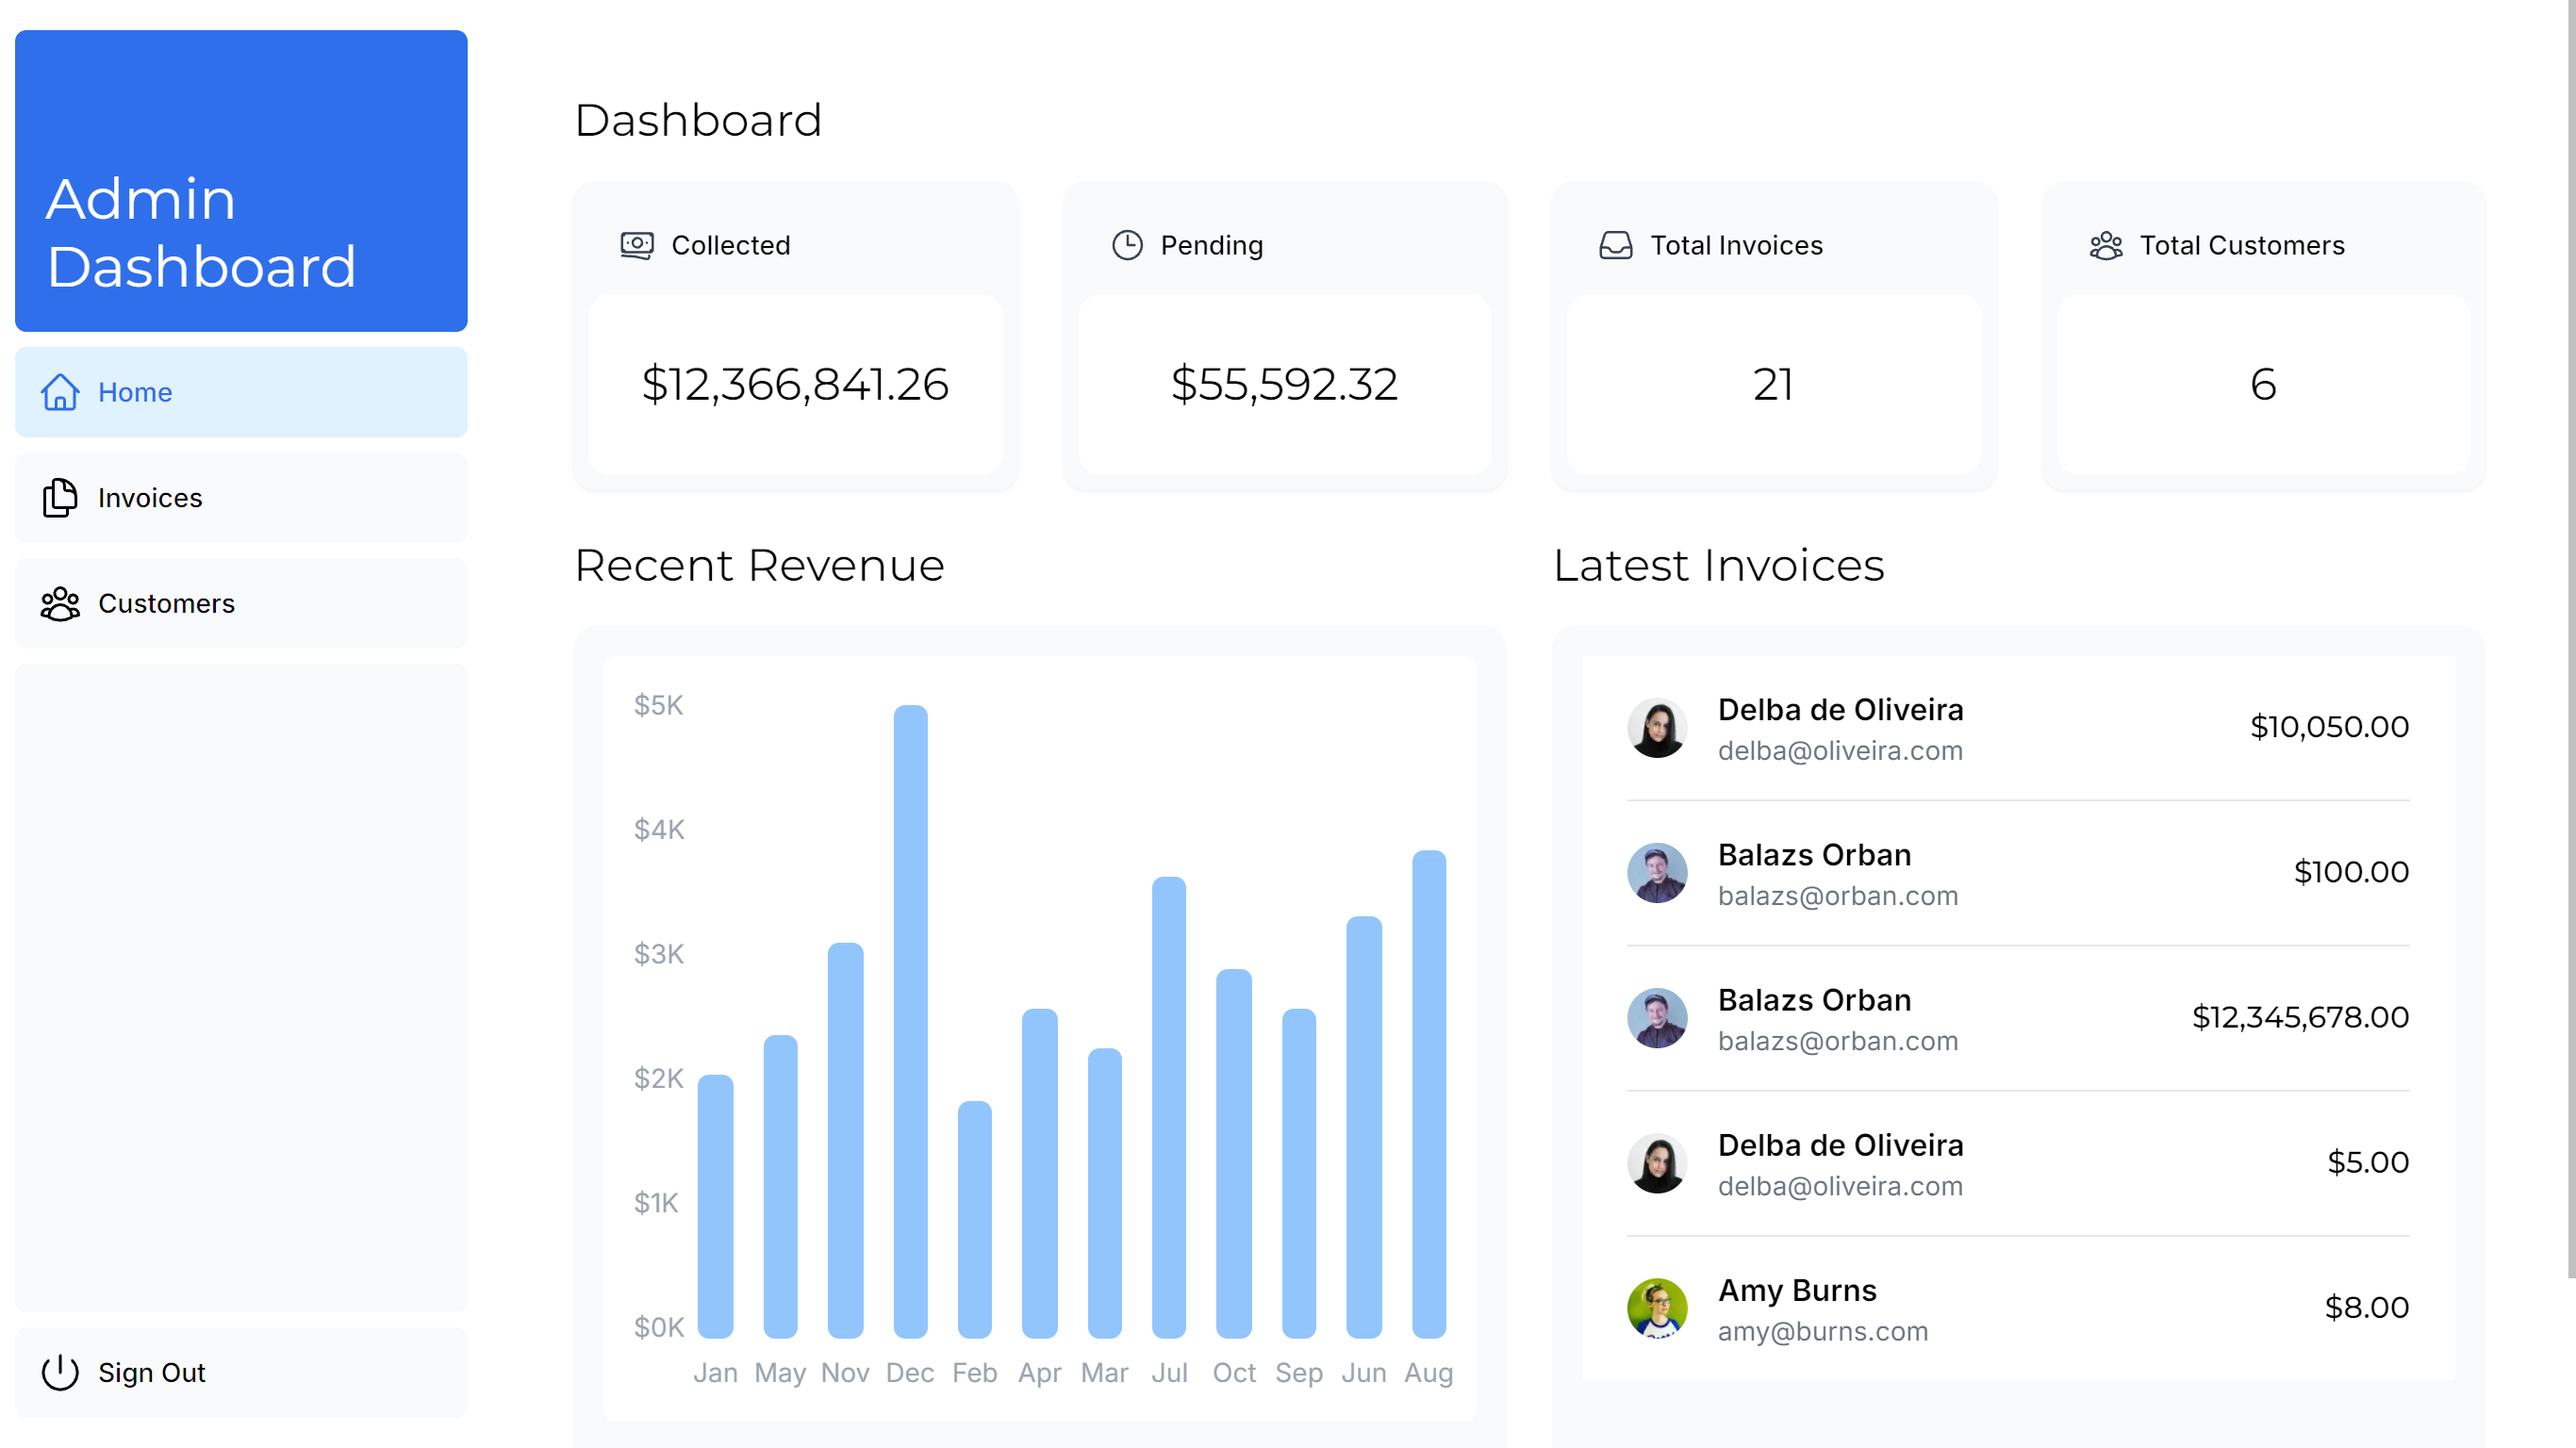
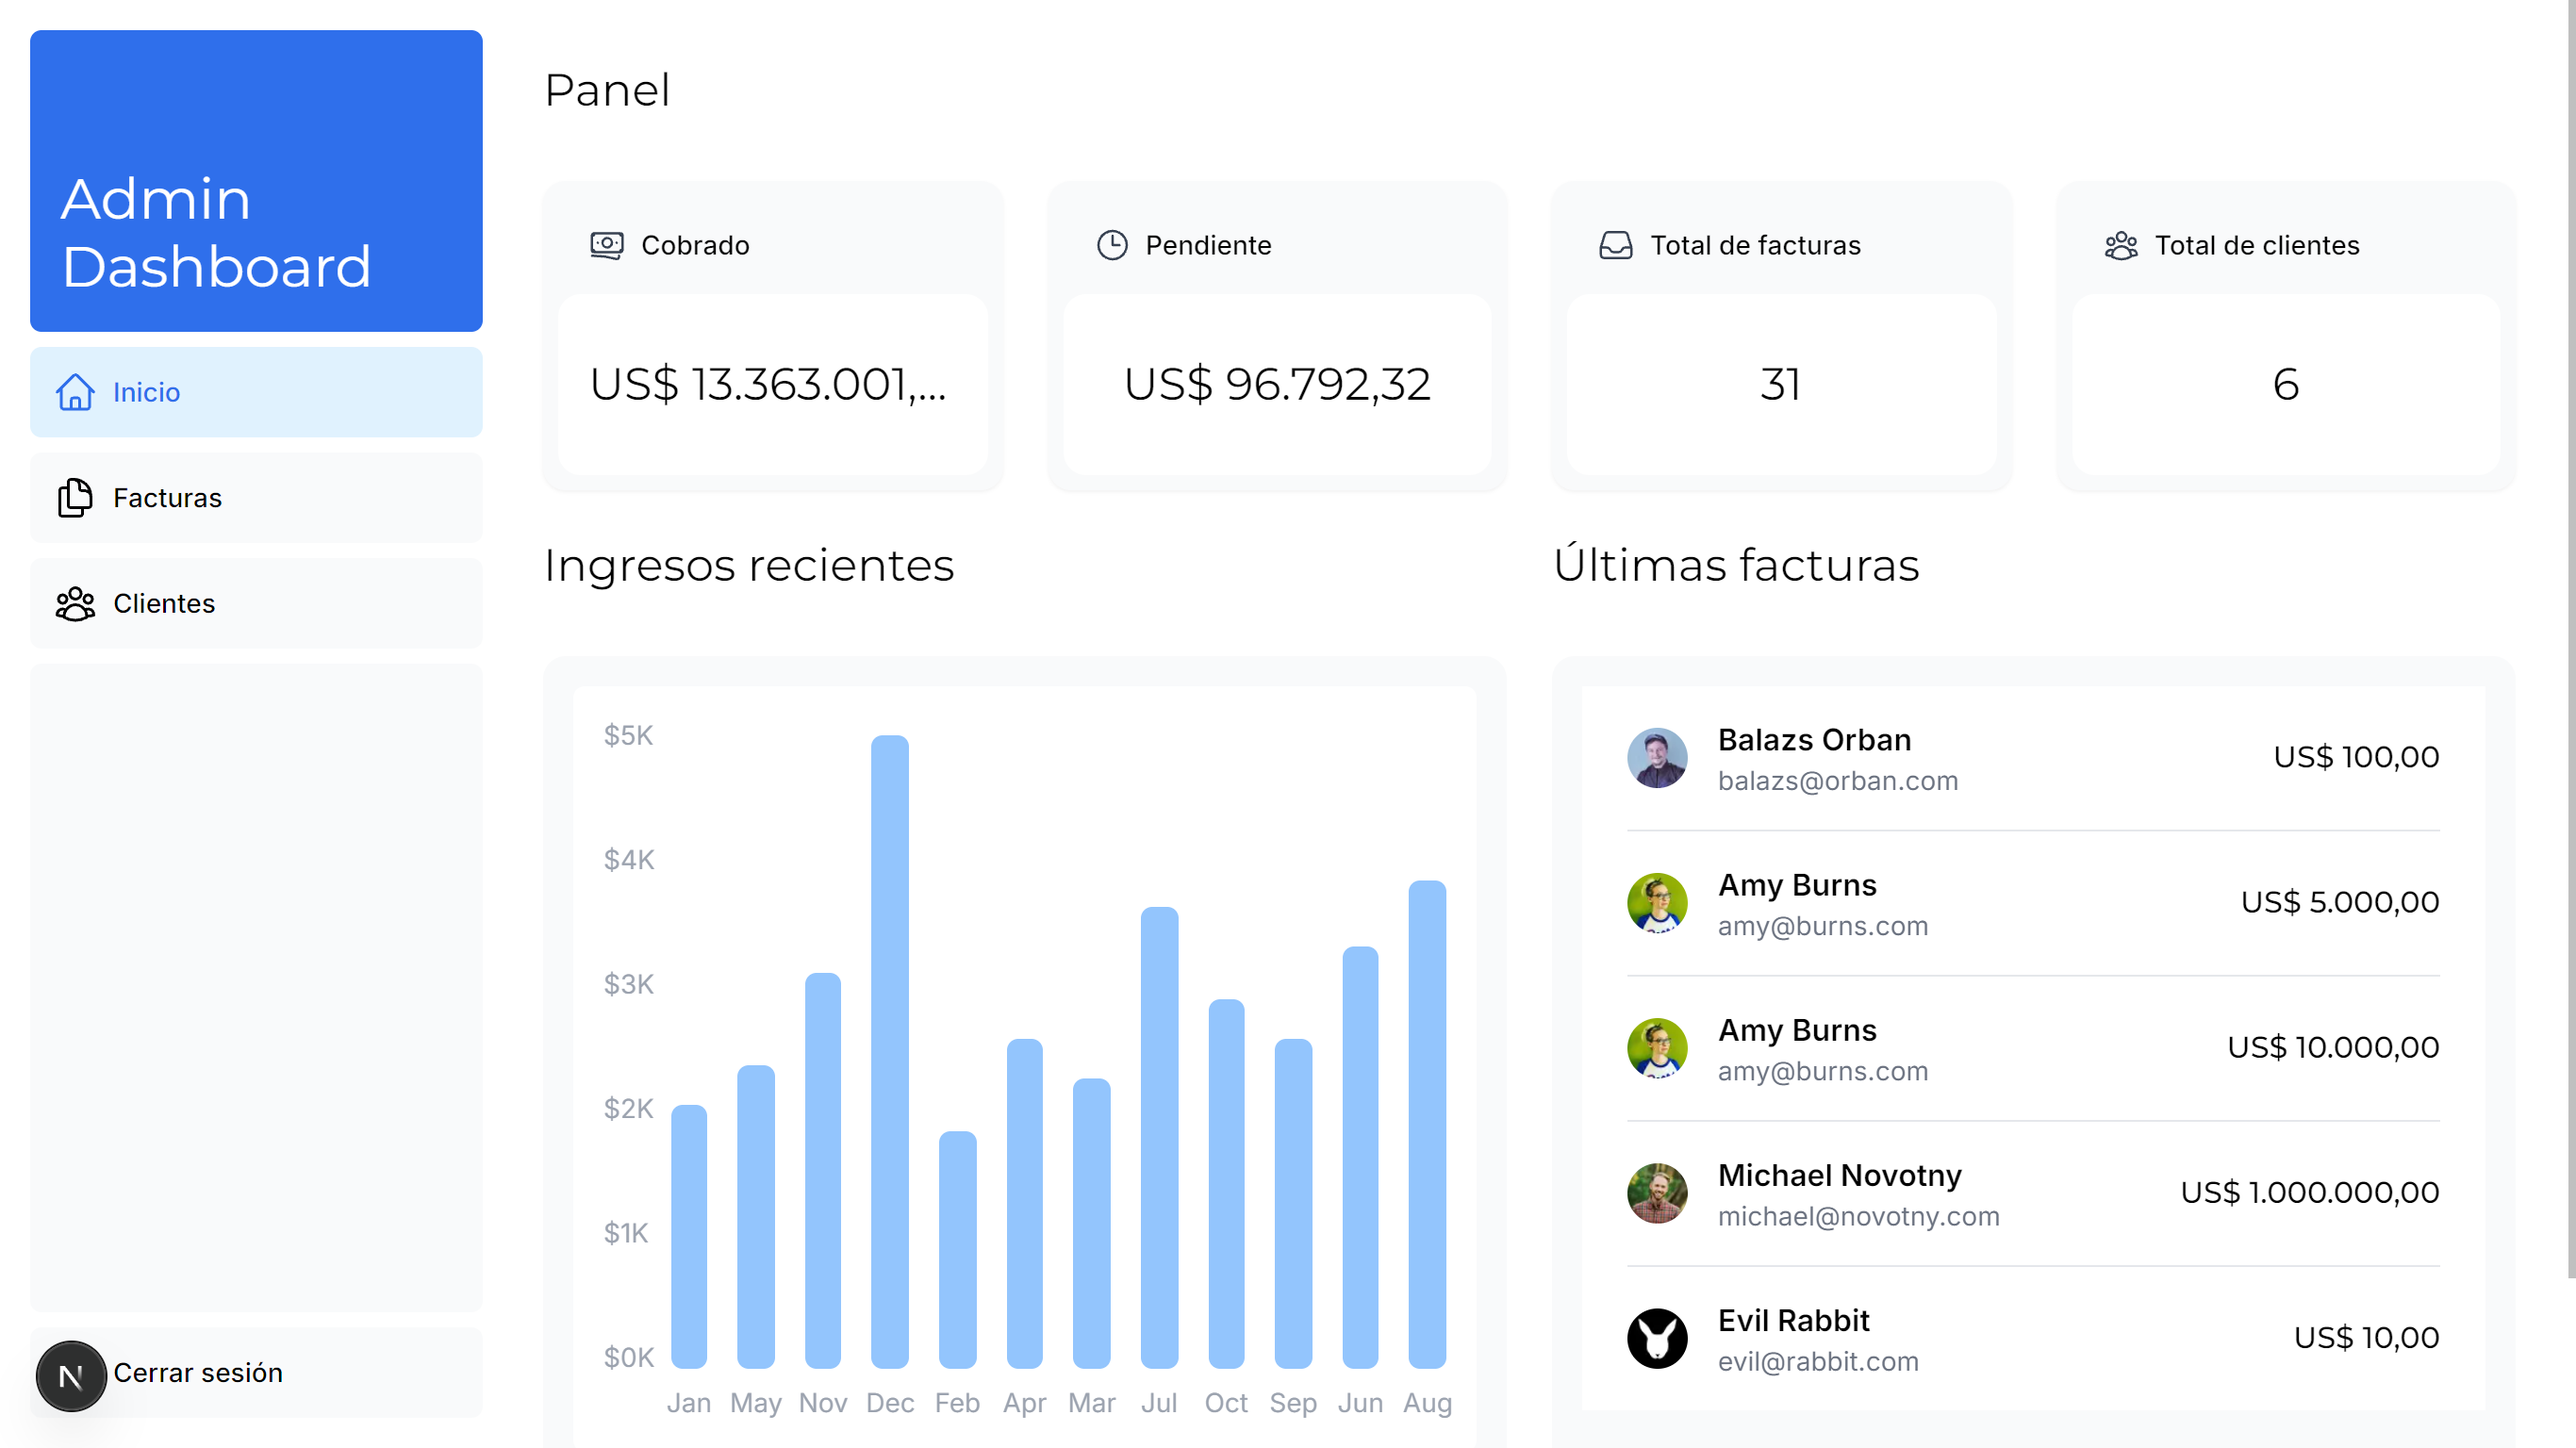
feat: capturas y hero images finales, README con URL de demo, ajustes visuales

diff --git a/app/ui/dashboard/latest-invoices.tsx b/app/ui/dashboard/latest-invoices.tsx
@@ -10,7 +10,7 @@ export default async function LatestInvoices() {
 
    return (
       <div className="flex w-full flex-col md:col-span-4">
-         <h2 className={`${montserrat.className} mb-4 text-xl md:text-2xl`}>
+         <h2 className={`${montserrat.className} mb-8 text-xl md:text-2xl`}>
             Últimas facturas
          </h2>
          <div className="flex grow flex-col justify-between rounded-xl bg-gray-50 p-4">
@@ -54,7 +54,9 @@ export default async function LatestInvoices() {
             </div>
             <div className="flex items-center pb-2 pt-6">
                <ArrowPathIcon className="h-5 w-5 text-gray-500" />
-               <h3 className="ml-2 text-sm text-gray-500 ">Actualizado ahora mismo</h3>
+               <h3 className="ml-2 text-sm text-gray-500 ">
+                  Actualizado ahora mismo
+               </h3>
             </div>
          </div>
       </div>

diff --git a/app/ui/dashboard/revenue-chart.tsx b/app/ui/dashboard/revenue-chart.tsx
@@ -2,7 +2,7 @@ import { generateYAxis } from "@/app/lib/utils";
 import { CalendarIcon } from "@heroicons/react/24/outline";
 import { montserrat } from "@/app/ui/fonts";
 import { Revenue } from "@/app/lib/definitions";
-import {fetchRevenue } from "../../lib/data";
+import { fetchRevenue } from "../../lib/data";
 
 // This component is representational only.
 // For data visualization UI, check out:
@@ -23,7 +23,7 @@ export default async function RevenueChart() {
 
    return (
       <div className="w-full md:col-span-4">
-         <h2 className={`${montserrat.className} mb-4 text-xl md:text-2xl`}>
+         <h2 className={`${montserrat.className} mb-8 text-xl md:text-2xl`}>
             Ingresos recientes
          </h2>
 

diff --git a/app/page.tsx b/app/page.tsx
@@ -7,13 +7,13 @@ import Image from "next/image";
 
 export default function Page() {
    return (
-      <main className="flex min-h-screen flex-col p-6">
+      <main className="flex min-h-screen flex-col p-4">
          <div className="flex h-20 shrink-0 items-end rounded-lg bg-blue-500 p-4 md:h-52">
             <SiteLogo />
 
             <div></div>
          </div>
-         <div className="mt-4 flex grow flex-col gap-4 md:flex-row">
+         <div className="mt-2 flex grow flex-col gap-4 md:flex-row">
             <div
                className={`flex flex-col justify-center gap-6 rounded-lg bg-gray-50 px-6 py-10 md:w-3/5 md:px-16 ${styles.homeCard}`}
             >

diff --git a/app/login/page.tsx b/app/login/page.tsx
@@ -10,8 +10,8 @@ export const metadata: Metadata = {
 export default function LoginPage() {
    return (
       <main className="flex items-center justify-center md:h-screen">
-         <div className="relative mx-auto flex w-full max-w-[400px] flex-col p-4">
-            <div className="flex h-20 w-full items-end rounded-lg bg-blue-500 p-3 md:h-36">
+         <div className="relative mx-auto flex w-full max-w-[400px] flex-col p-4 gap-2">
+            <div className="flex h-20 w-full items-end rounded-lg bg-blue-500 p-4 md:h-36">
                <div className="w-full text-white md:w-36">
                   <SiteLogo />
                </div>

diff --git a/app/dashboard/invoices/page.tsx b/app/dashboard/invoices/page.tsx
@@ -25,9 +25,11 @@ export default async function Page({
    return (
       <div className="w-full">
          <div className="flex w-full items-center justify-between">
-            <h1 className={`${inter.className} text-2xl`}>Facturas</h1>
+            <h1 className={`${inter.className} mb-8 text-xl md:text-2xl`}>
+               Facturas
+            </h1>
          </div>
-         <div className="mt-4 flex items-center justify-between gap-2 md:mt-8">
+         <div className=" flex items-center justify-between gap-2 ">
             <Search placeholder="Buscar facturas..." />
             <CreateInvoice />
          </div>

diff --git a/app/ui/dashboard/sidenav.tsx b/app/ui/dashboard/sidenav.tsx
@@ -6,7 +6,7 @@ import { signOut } from "@/auth";
 
 export default function SideNav() {
    return (
-      <div className="flex h-full flex-col px-3 py-4 md:px-2 w-full max-w-full">
+      <div className="flex h-full flex-col p-4 md:pr-0 pr-4 w-full max-w-full">
          <Link
             className="mb-2 flex h-20 items-end justify-start rounded-md bg-blue-600 p-4 md:h-40"
             href="/"

diff --git a/app/dashboard/(overview)/page.tsx b/app/dashboard/(overview)/page.tsx
@@ -15,11 +15,9 @@ export const metadata: Metadata = {
 };
 
 export default async function Page() {
-  
-
    return (
       <main>
-         <h1 className={`${montserrat.className} mb-4 text-xl md:text-2xl`}>
+         <h1 className={`${montserrat.className} mb-8 text-xl md:text-2xl`}>
             Panel
          </h1>
          <div className="grid gap-6 sm:grid-cols-2 lg:grid-cols-4">

diff --git a/app/dashboard/layout.tsx b/app/dashboard/layout.tsx
@@ -6,7 +6,7 @@ export default function Layout({ children }: { children: React.ReactNode }) {
          <div className="w-full flex-none md:w-64 max-w-full">
             <SideNav />
          </div>
-         <div className="grow p-6 md:overflow-y-auto md:p-12">{children}</div>
+         <div className="grow p-4 md:overflow-y-auto md:p-8">{children}</div>
       </div>
    );
 }

diff --git a/app/ui/invoices/breadcrumbs.tsx b/app/ui/invoices/breadcrumbs.tsx
@@ -14,7 +14,7 @@ export default function Breadcrumbs({
    breadcrumbs: Breadcrumb[];
 }) {
    return (
-      <nav aria-label="Breadcrumb" className="mb-6 block">
+      <nav aria-label="Breadcrumb" className="mb-8 block">
          <ol className={clsx(montserrat.className, "flex text-xl md:text-2xl")}>
             {breadcrumbs.map((breadcrumb, index) => (
                <li

diff --git a/README.md b/README.md
@@ -2,7 +2,7 @@
 
 Panel de administración full-stack construido con Next.js (App Router), TypeScript, Tailwind CSS, PostgreSQL y NextAuth.
 
-🌐 **Demo:** _URL a completar tras el deploy_
+🌐 **Demo:** https://nextjs-dashboard-one-sable-88.vercel.app
 
 ---
 
